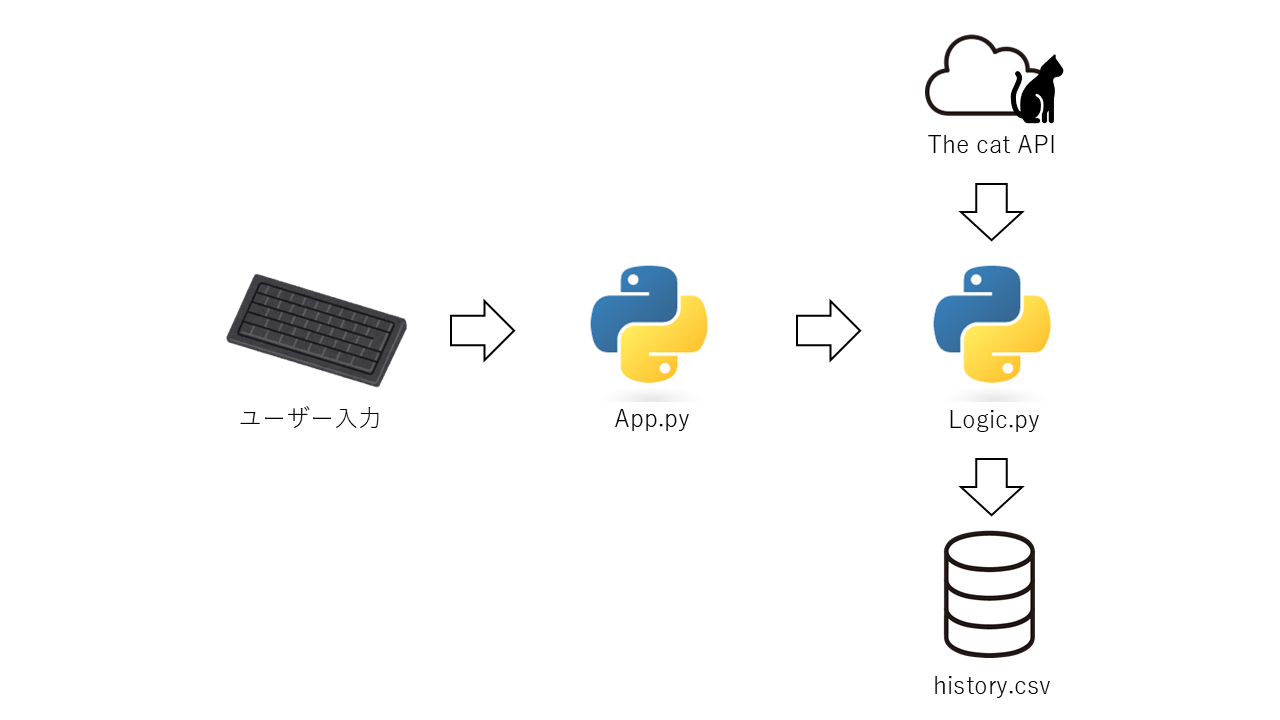
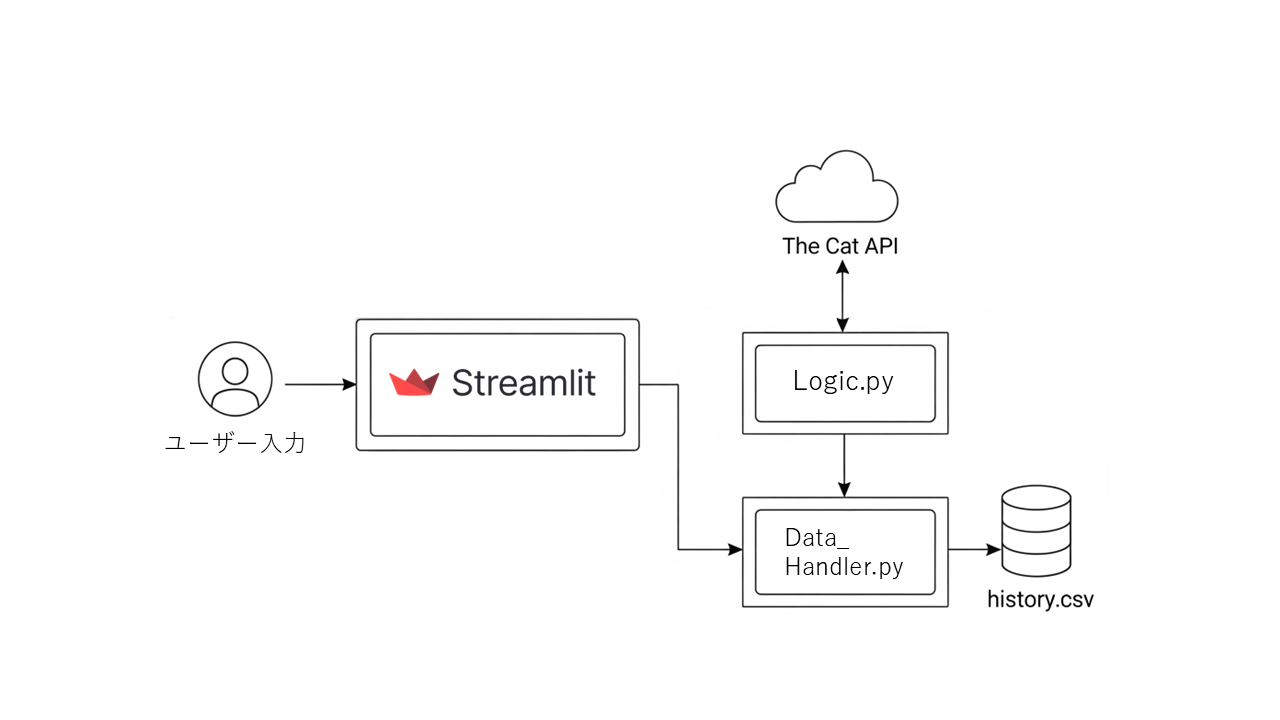
README

diff --git a/README.md b/README.md
@@ -1,9 +1,16 @@
-# システム設計図
-
+# アプリ概要
 このアプリは、ユーザーによって入力された猫の種類をもとに、The Cat API を使って該当する猫の画像を検索・表示するWebアプリです。
 アプリは Streamlit Cloud 上にデプロイされています。
 
 また、検索履歴は .csv ファイルとして保存され、アプリ内で一覧表示されます。
+
+# 使用したAPI
+The Cat API：猫の種類を指定して画像を取得するAPI
+
+
+# システム設計図
+
+
 
 ![system_diagram](overview.png)
 
@@ -17,4 +24,4 @@
 
 - data_handler.py：検索履歴をCSVとして保存・読み込みする処理
 
-![layout_diagram](layout.png)
+![layout_diagram](cord.png)
